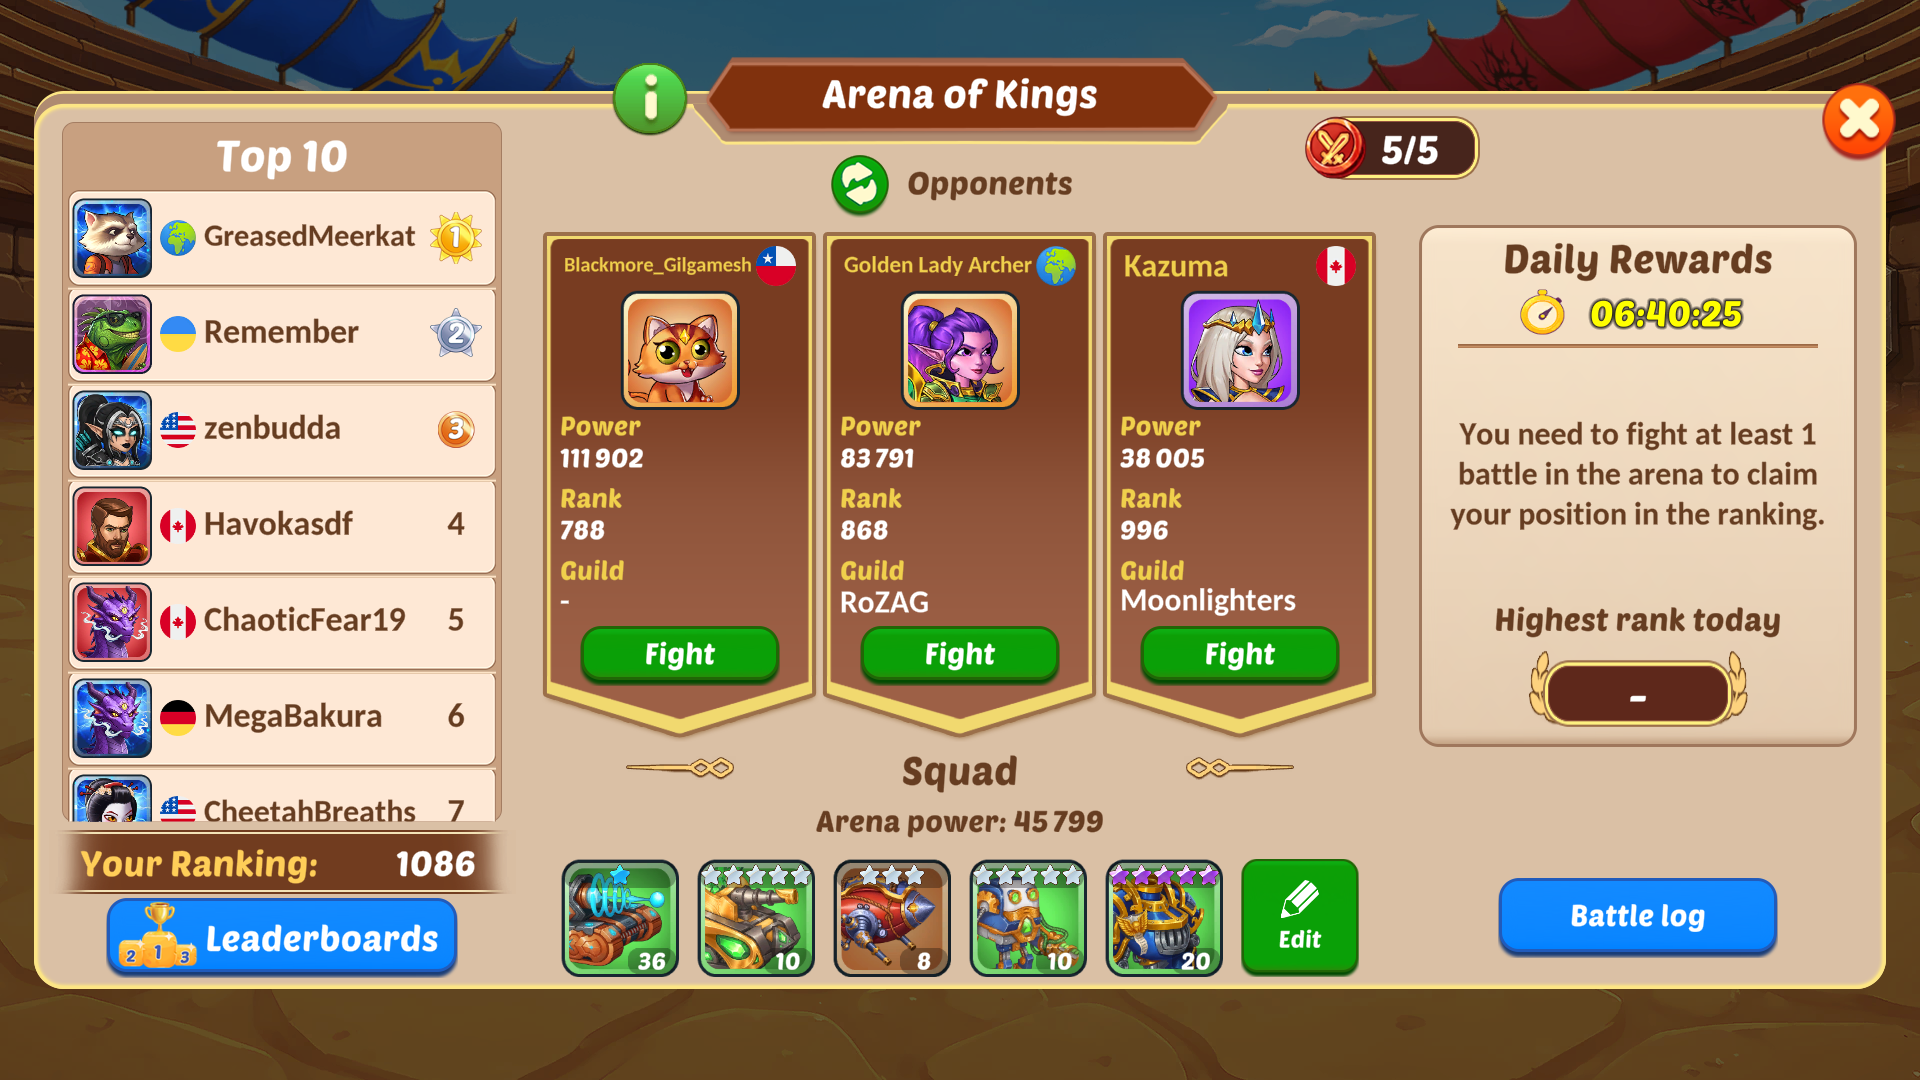
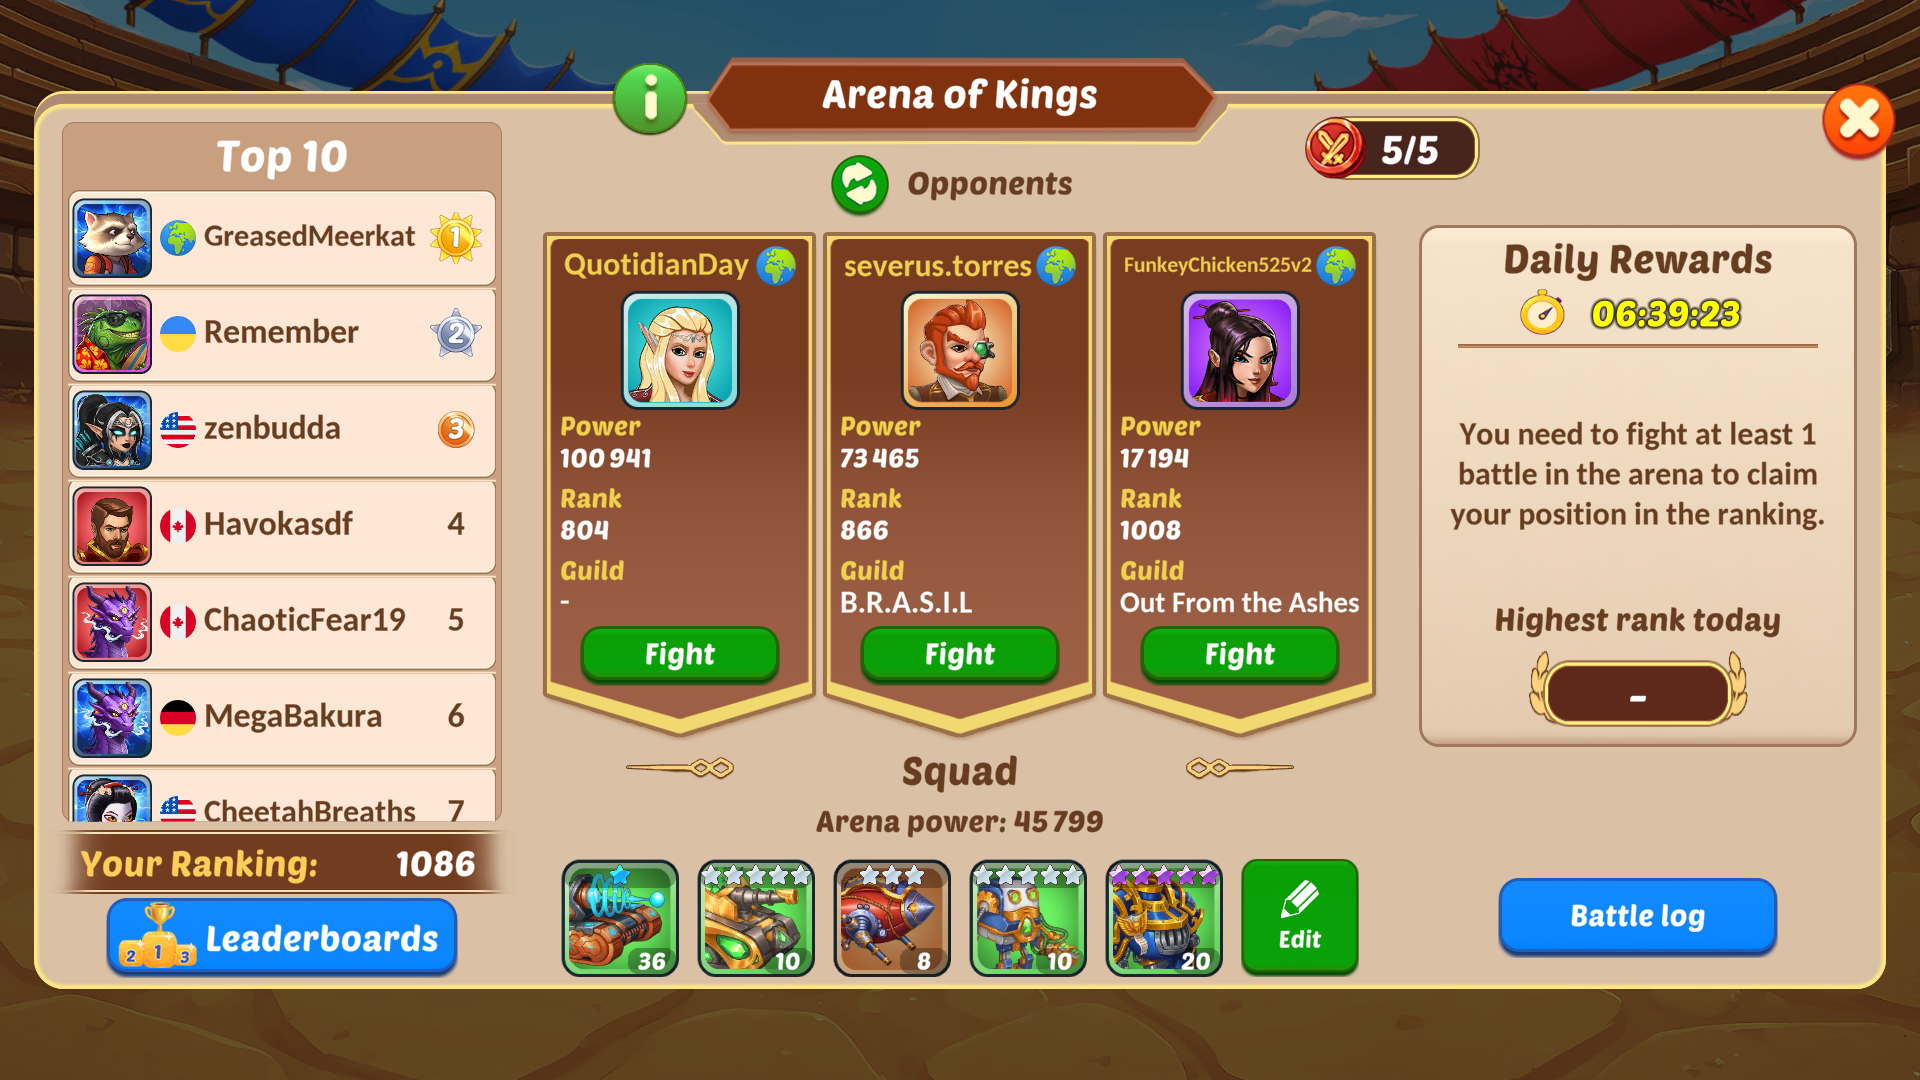
Change a plugin's value
BotMaker-Origin: safety

diff --git a/src/main/java/com/firestone/plugins/sdk/Screens.java b/src/main/java/com/firestone/plugins/sdk/Screens.java
@@ -91,7 +91,8 @@ public final class Screens {
             .from(Way.of(Screens.ARENA, Input.click(Pictures.INFO_MAP).kind(Kind.INFO)))
             .back(Input.click(Pictures.CLOSE_ROOMS_CHAT));
     public static final GameScreen ARENA_LEADERBOARDS = GameScreen.named("Arena leaderboards").marker(Pictures.ARENA_LEADERBOARDS_HEADER)
-            .from(Way.of(Screens.ARENA, Input.click(Pictures.ARENA_LEADERBOARDS)));
+            .from(Way.of(Screens.ARENA, Input.click(Pictures.ARENA_LEADERBOARDS)))
+            .back(Input.click(Pictures.ARENA_LEADERBOARDS_CLOSE));
     private Screens() {
     }
 }
